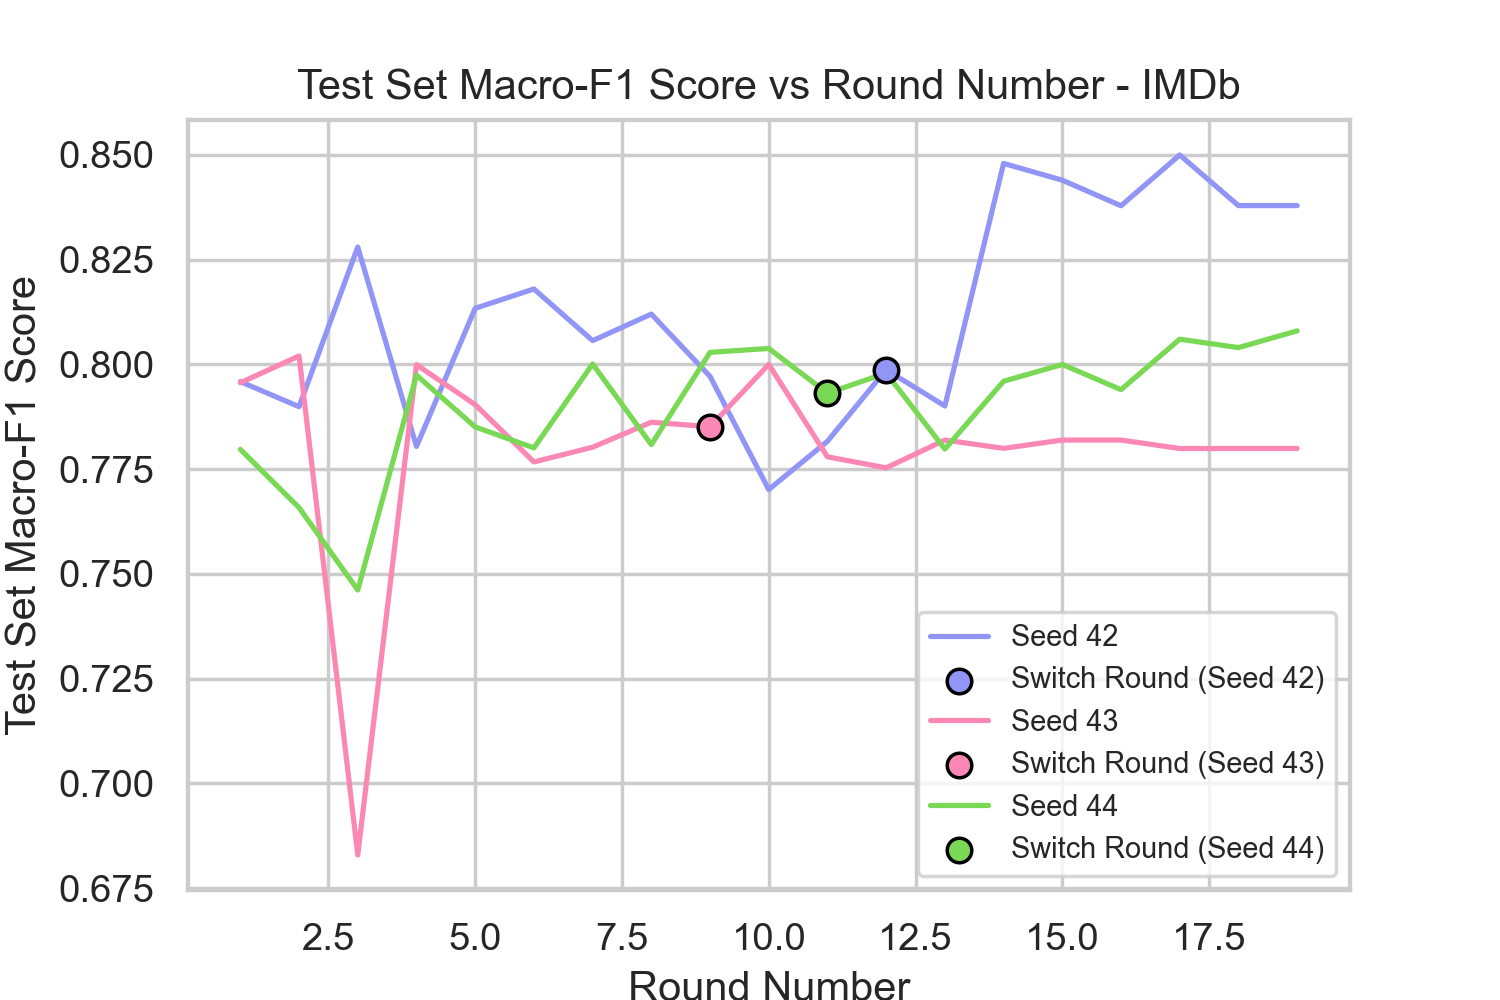
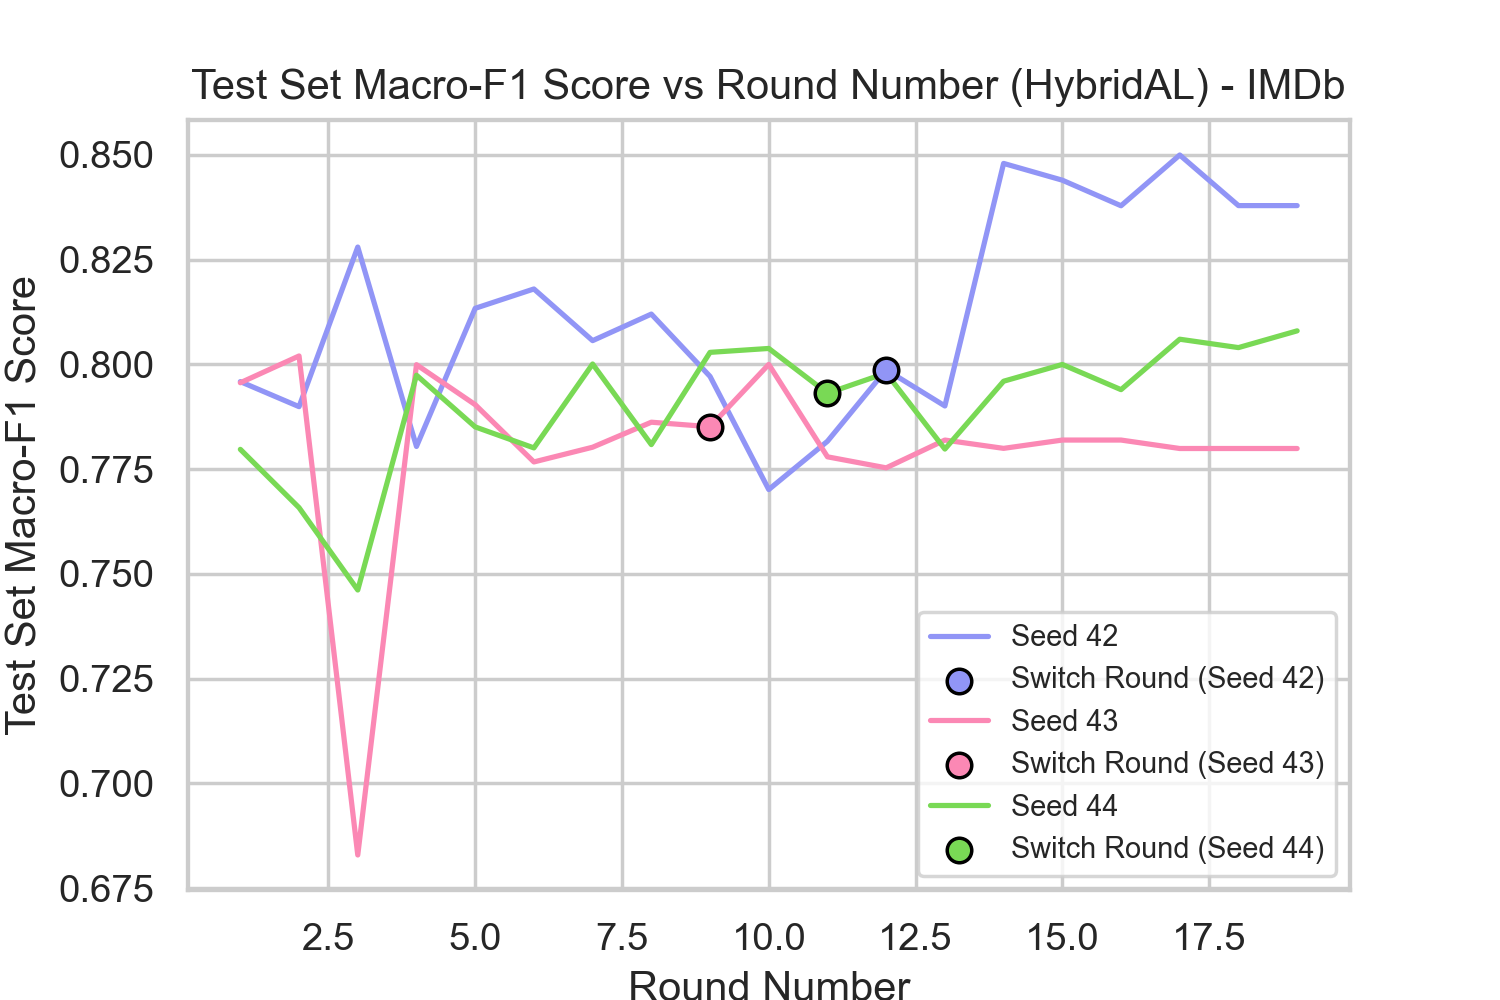
Small changes

Changed region(s): [[0.1227, 0.062, 0.8893, 0.124]]

diff --git a/figure_plotter.py b/figure_plotter.py
@@ -390,7 +390,7 @@ def plot_f1_vs_round_switch(experiments_df: pd.DataFrame, best_hybrid_hyper: dic
     Parameters:
     - experiments_df: DataFrame containing the experiments' data.
     - best_hybrid_hyper: Dictionary containing the best hyperparameters for HybridAL.
-    - save_dir_path: Directory path to save the generated plots. If None, plots are
+    - save_dir_path: Directory path to save the generated plots. If None, plots are just shown.
     """
 
     for dataset in dataset_names.keys():
@@ -422,7 +422,7 @@ def plot_f1_vs_round_switch(experiments_df: pd.DataFrame, best_hybrid_hyper: dic
 
         plt.xlabel('Round Number')
         plt.ylabel('Test Set Macro-F1 Score')
-        plt.title(f'Test Set Macro-F1 Score vs Round Number - {dataset_names[
+        plt.title(f'Test Set Macro-F1 Score vs Round Number (HybridAL) - {dataset_names[
             dataset]}')
         plt.legend(fontsize='x-small')
         if save_dir_path is not None:
